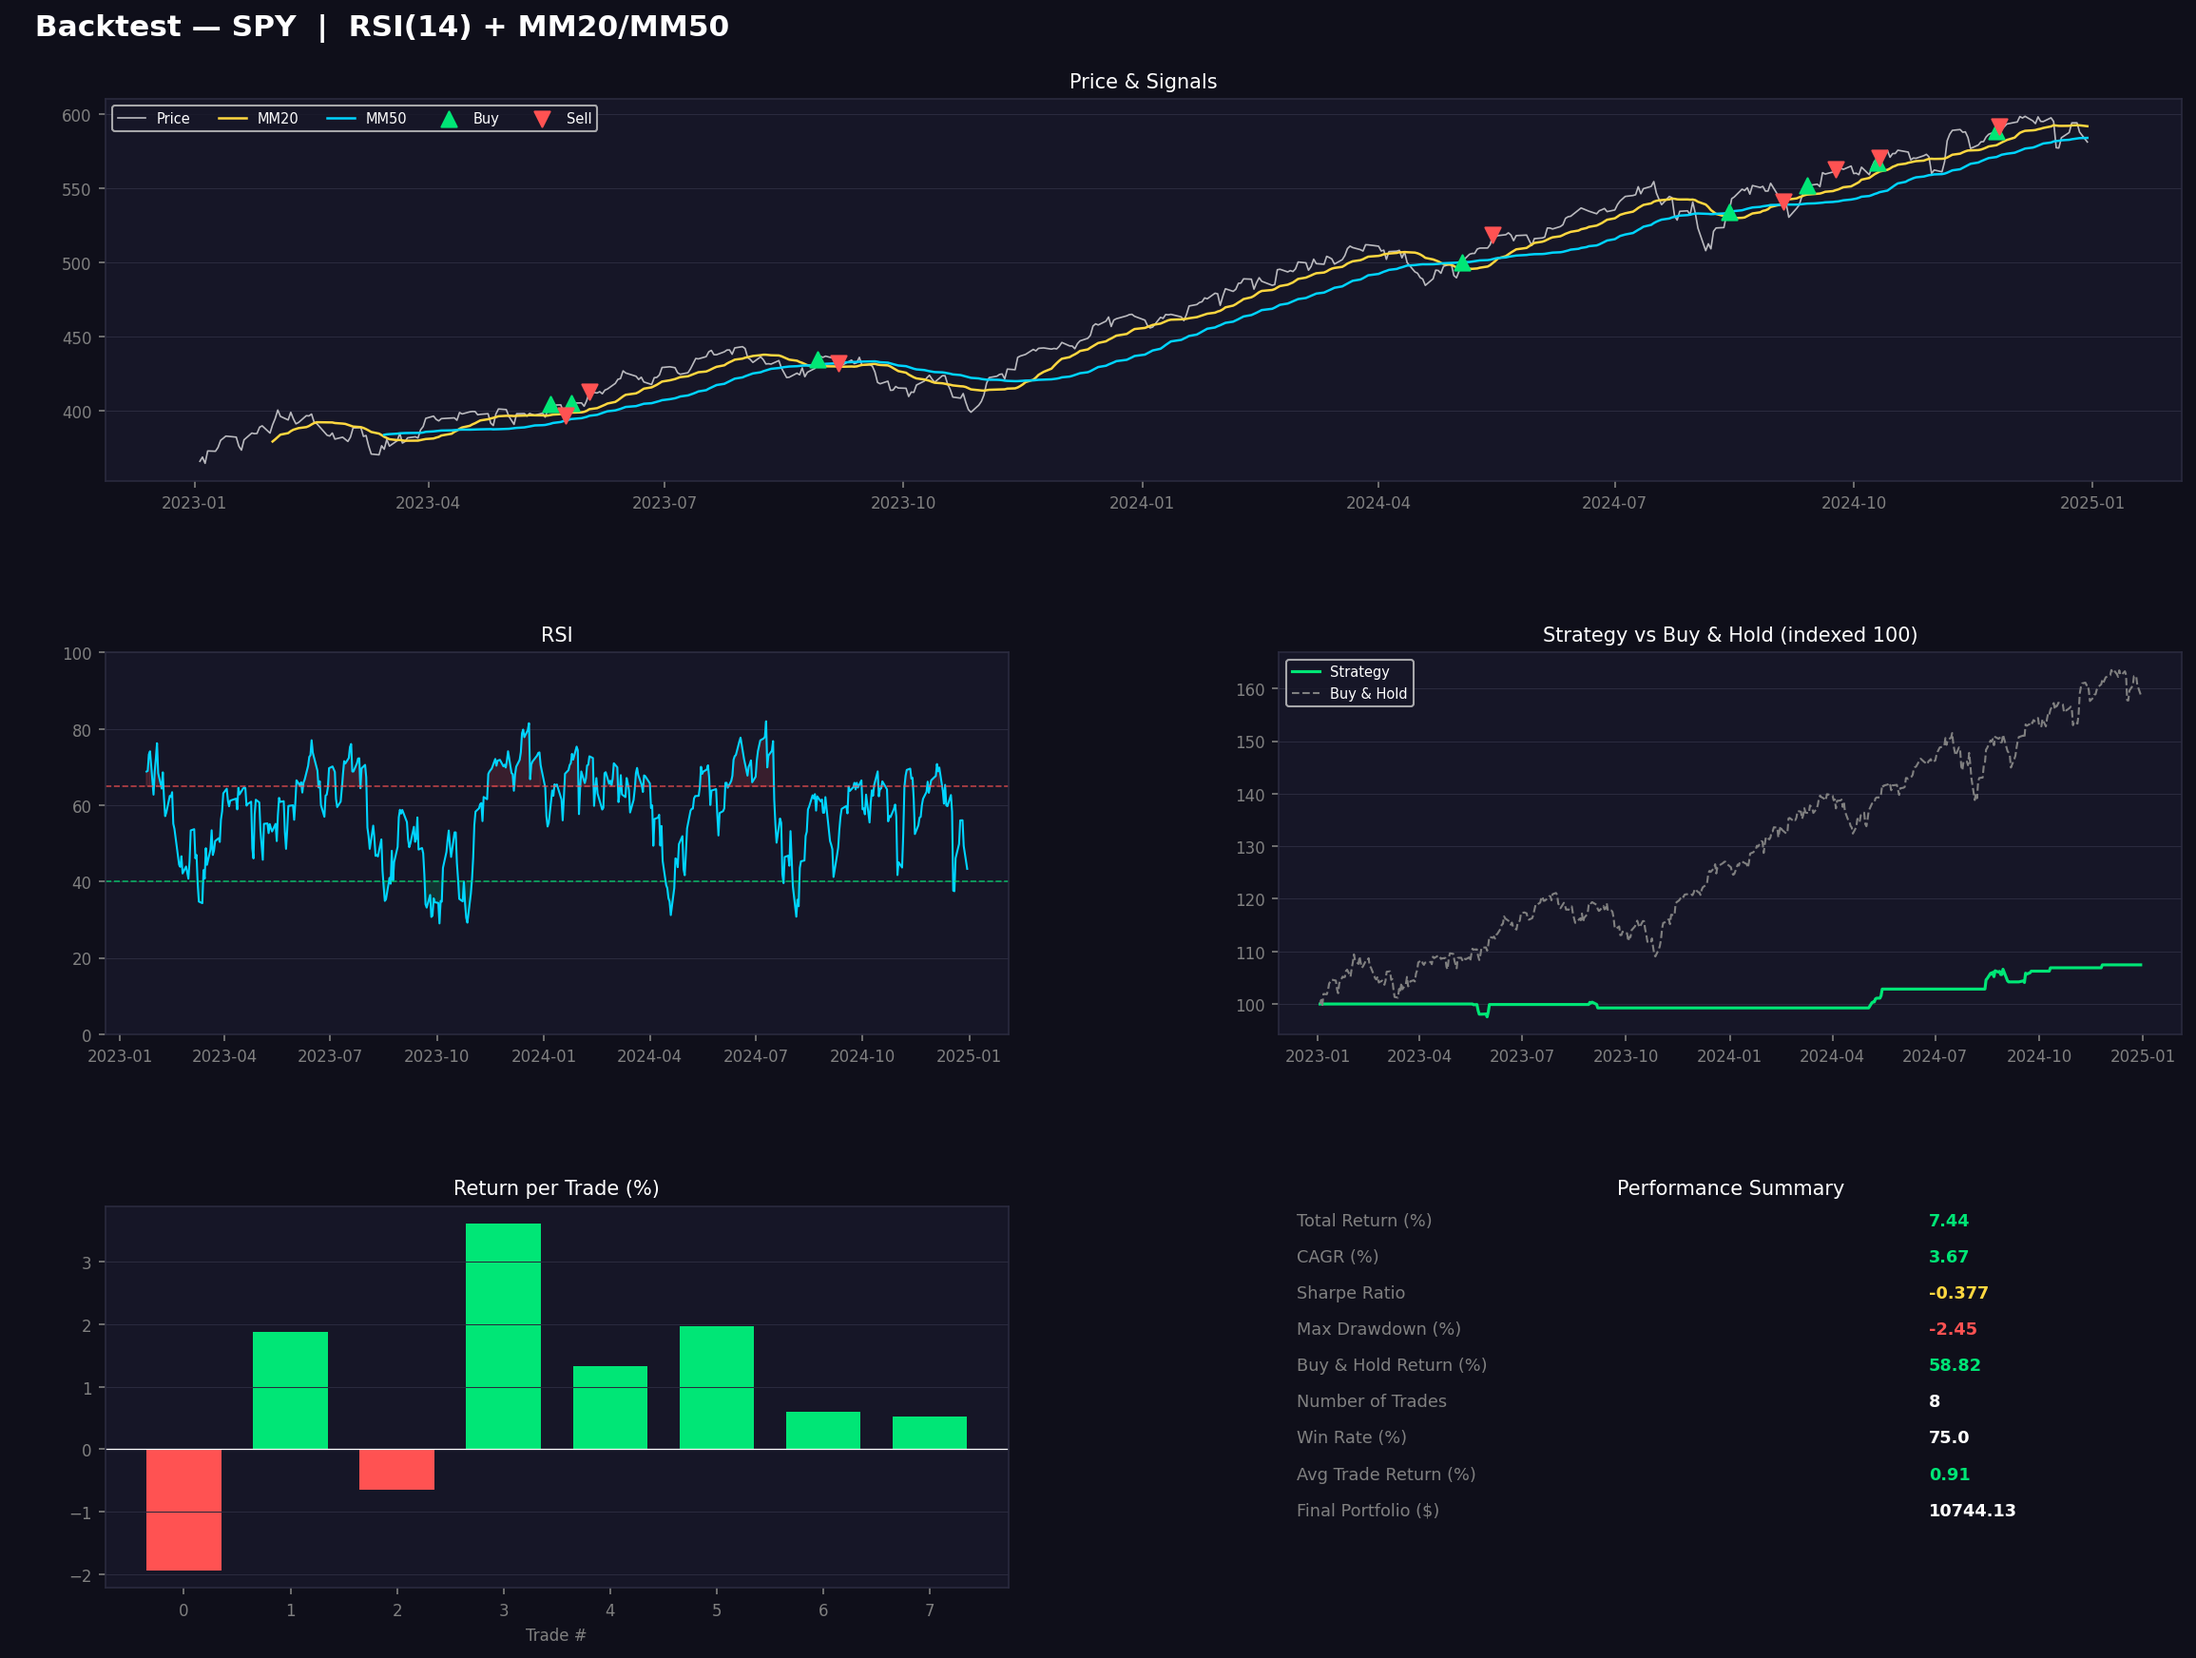
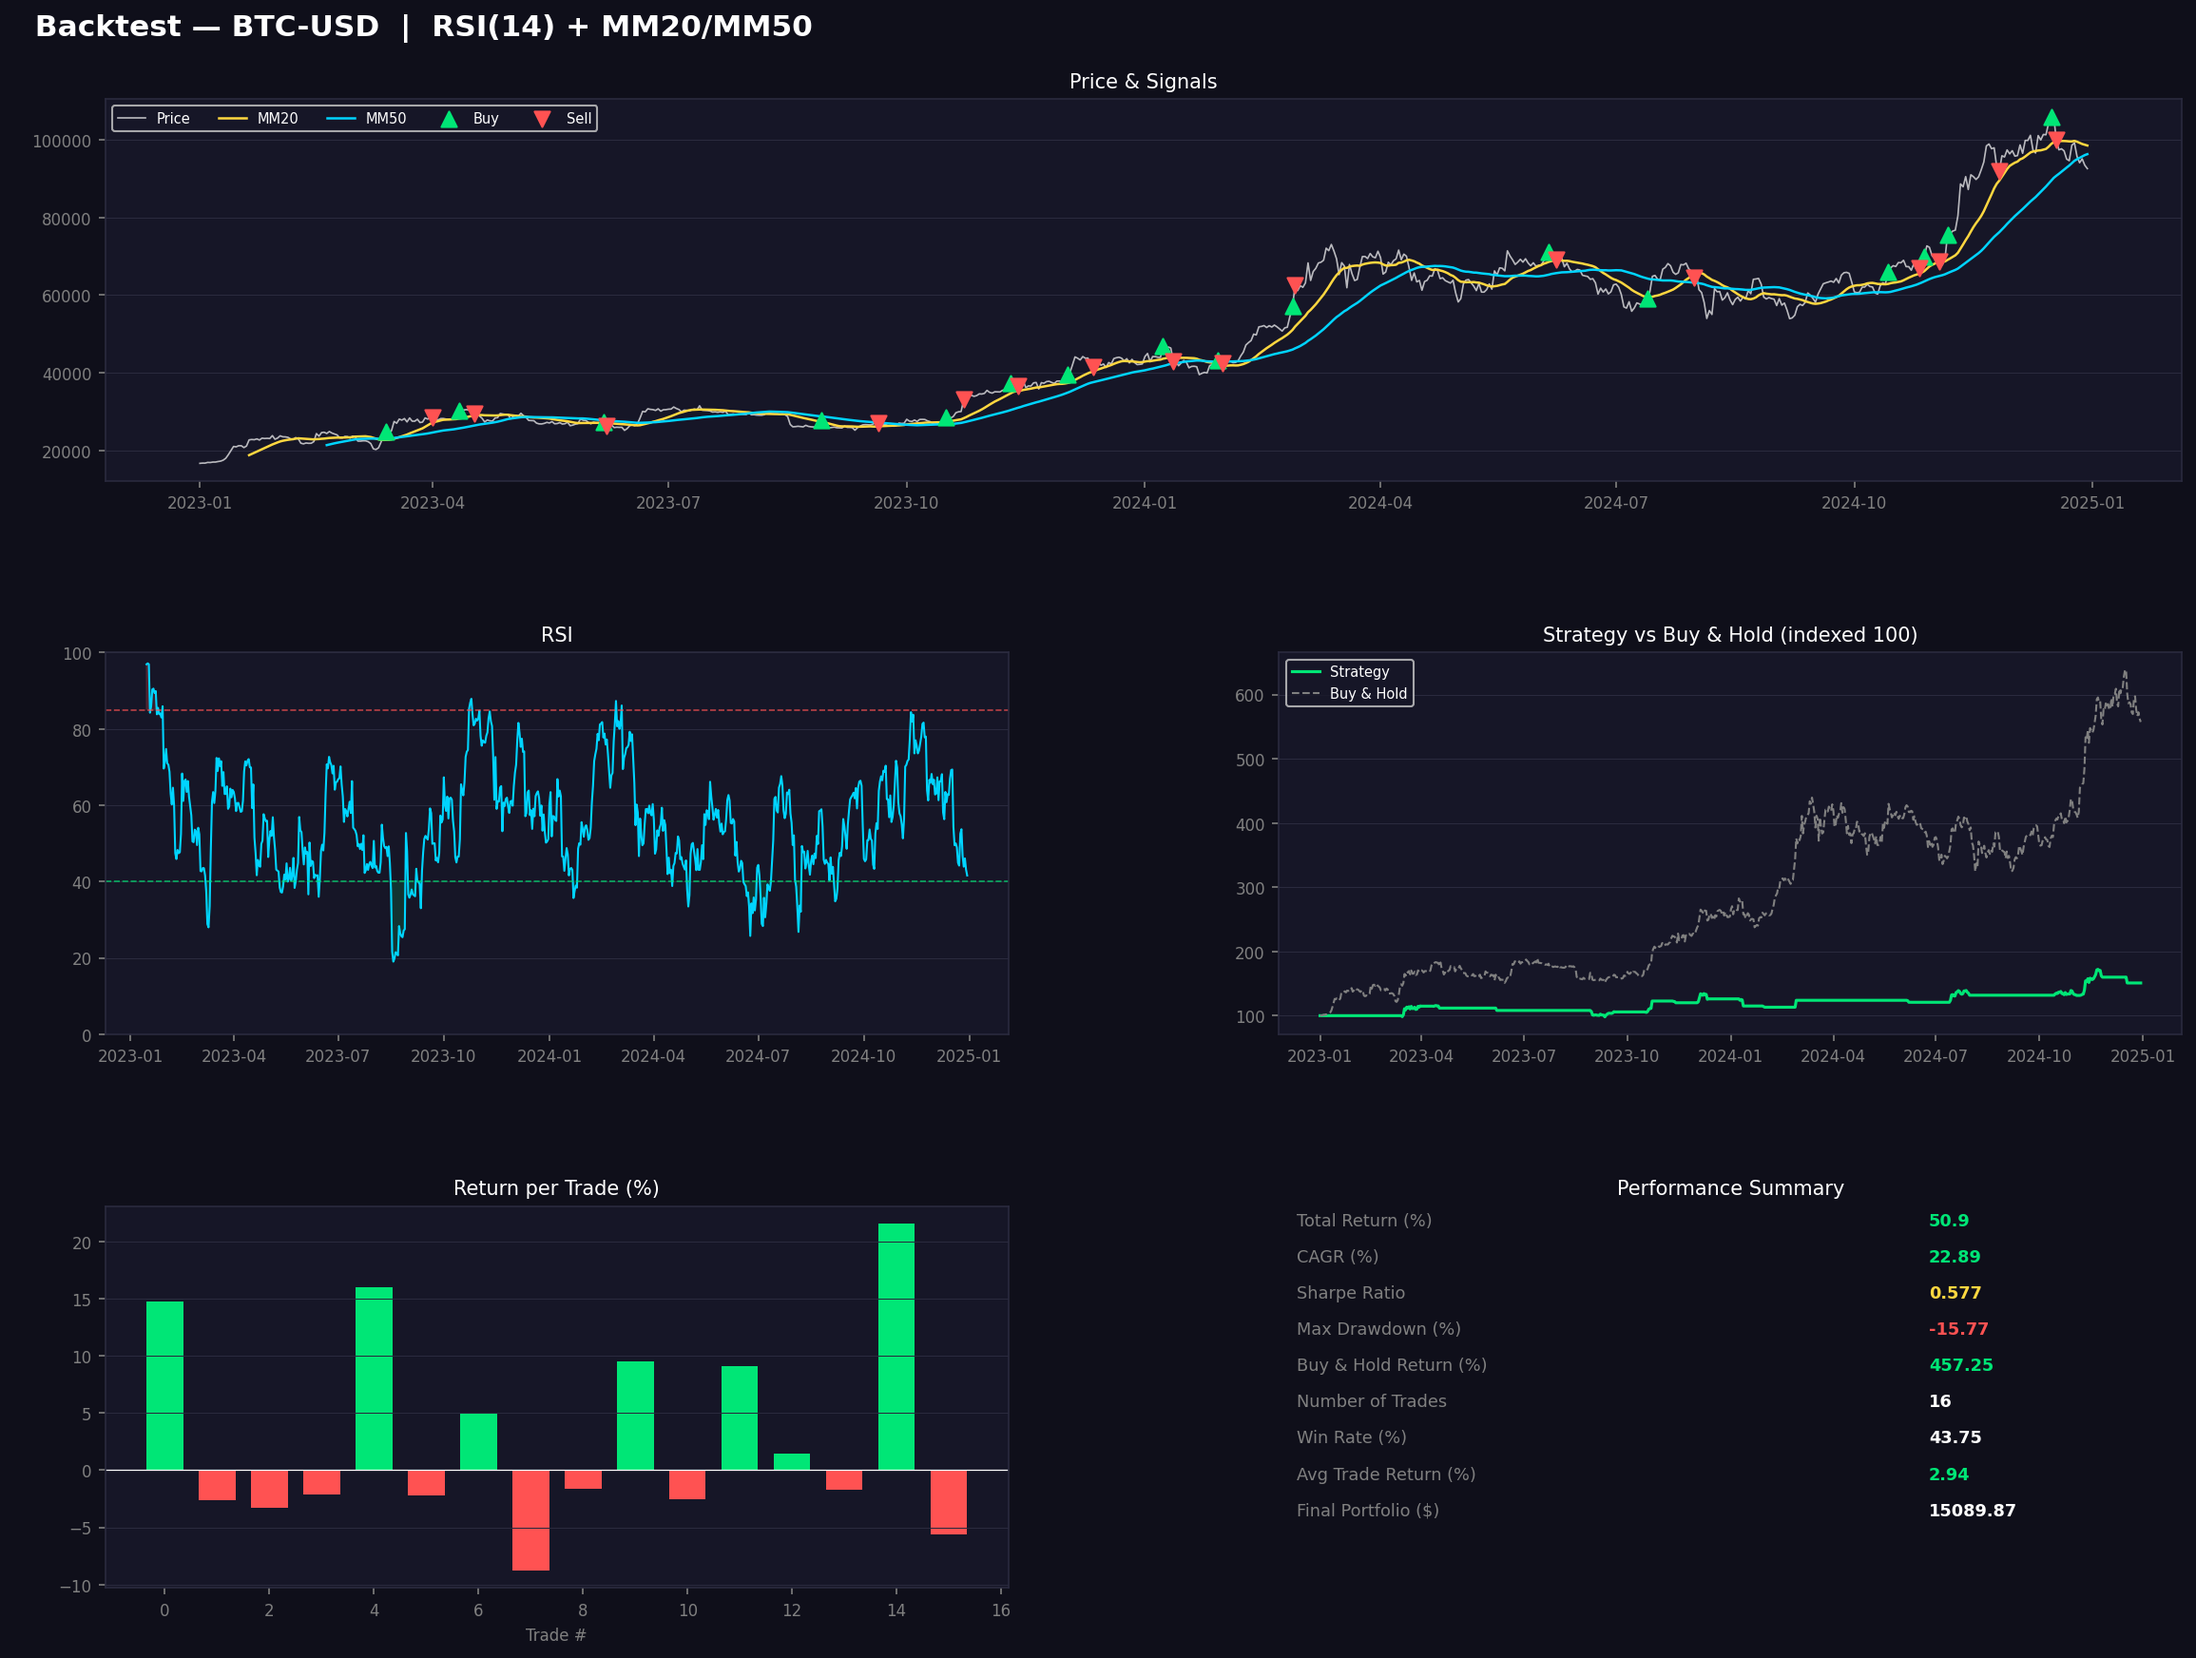
added a stop loss; ML on ideal parameters

diff --git a/strategy.py b/strategy.py
@@ -1,4 +1,5 @@
-
+from itertools import product
+from joblib import Parallel, delayed
 
 import yfinance as yf
 import pandas as pd
@@ -13,19 +14,29 @@ warnings.filterwarnings('ignore')
 
 
 CONFIG = {
-    "ticker":        "SPY",
-    "start": "2023-01-01",
-    "end":   "2024-12-31",
+    "ticker":           "BTC-USD",
+    "start": "2018-01-01",
+    "end":   "2024-12-31",  
+
+    "risk_free_rate":   0.05,
+
     "initial_cash":  10_000,
 
     "rsi_period":    14,
     "rsi_oversold":  40,
-    "rsi_overbought": 65,
+    "rsi_overbought": 85,
 
     "ma_fast":       20,
     "ma_slow":       50,
 
+    
+
+
     "position_size": 1.0,
+
+    "atr_multiplier": 2.0,    
+    "stop_loss_pct":  0.08,
+    
 }
 
 
@@ -40,7 +51,6 @@ def compute_rsi(series: pd.Series, period: int) -> pd.Series:
     rsi = 100 - (100 / (1 + rs))
     return rsi
 
-
 def add_indicators(df: pd.DataFrame, cfg: dict) -> pd.DataFrame:
     df = df.copy()
     df["MA_fast"] = df["Close"].rolling(cfg["ma_fast"]).mean()
@@ -54,14 +64,17 @@ def add_indicators(df: pd.DataFrame, cfg: dict) -> pd.DataFrame:
     df["MACD_signal"] = df["MACD"].ewm(span=9, adjust=False).mean()
     df["MACD_hist"]   = df["MACD"] - df["MACD_signal"]
 
+    df["TR"] = pd.concat([
+        df["High"] - df["Low"],
+        (df["High"] - df["Close"].shift(1)).abs(),
+        (df["Low"]  - df["Close"].shift(1)).abs()
+    ], axis=1).max(axis=1)
+    df["ATR"] = df["TR"].rolling(14).mean()
+
     return df
-
-
 
 #  BUY  : (MACD_hist croise 0 par le haut ET prix > MA_slow) OU (RSI remonte au dessus de 40 ET MACD_hist positif)
 #  SELL : (MACD_hist croise 0 par le bas) OU (RSI > 65) OU (prix passe sous MA_slow)
-
-
 
 def generate_signals(df: pd.DataFrame, cfg: dict) -> pd.DataFrame:
 
@@ -71,9 +84,10 @@ def generate_signals(df: pd.DataFrame, cfg: dict) -> pd.DataFrame:
 
     cond_ma = df["Close"] > df["MA_slow"]
 
-    cond_rsi = (df["RSI"] > 40) & (df["RSI"].shift(1) <= 40)
+    cond_rsi = (df["RSI"] > cfg["rsi_oversold"]) & (df["RSI"].shift(1) <= cfg["rsi_oversold"])
 
     cond_macd = (df["MACD_hist"] > 0) & (df["MACD_hist"].shift(1) <= 0)
+
 
     buy_signal = cond_macd & cond_ma
     buy_signal2 = cond_rsi & (df["MACD_hist"] > 0)
@@ -90,26 +104,27 @@ def generate_signals(df: pd.DataFrame, cfg: dict) -> pd.DataFrame:
 
     return df
 
-
-
-
 def run_backtest(df: pd.DataFrame, cfg: dict) -> pd.DataFrame:
     cash       = cfg["initial_cash"]
     shares     = 0
-    position   = 0          # 0 = out, 1 = in
+    position   = 0          
     trades     = []
     portfolio  = []
     entry_price = 0
+    trailing_stop = 0
+    fee           = cfg.get("fee", 0.001)
 
     for date, row in df.iterrows():
         price = row["Close"]
         sig   = row["signal"]
+        atr   = row["ATR"] if not np.isnan(row["ATR"]) else price * 0.05
 
         if sig == 1 and position == 0 and not np.isnan(row["MA_slow"]):
             shares      = (cash * cfg["position_size"]) / price
             cash       -= shares * price
             position    = 1
             entry_price = price
+            trailing_stop = price - cfg["atr_multiplier"] * atr
             trades.append({"date": date, "type": "BUY", "price": price, "shares": shares})
 
         elif sig == -1 and position == 1:
@@ -121,23 +136,56 @@ def run_backtest(df: pd.DataFrame, cfg: dict) -> pd.DataFrame:
             shares   = 0
             position = 0
 
+        elif position == 1:
+            # Met à jour le trailing stop si le prix monte
+            new_stop      = price - cfg["atr_multiplier"] * atr
+            trailing_stop = max(trailing_stop, new_stop)
+
+            # — STOP LOSS DÉCLENCHÉ —
+            if price <= trailing_stop:
+                cash += shares * price * (1 - fee)
+                pnl   = (price - entry_price) * shares
+                trades.append({"date": date, "type": "SELL",
+                               "price": price, "shares": shares,
+                               "pnl": pnl,
+                               "return_%": (price / entry_price - 1) * 100,
+                               "exit": "stop_loss"})
+                shares        = 0
+                position      = 0
+                trailing_stop = 0
+
+            # — SIGNAL DE VENTE NORMAL —
+            elif sig == -1:
+                cash += shares * price * (1 - fee)
+                pnl   = (price - entry_price) * shares
+                trades.append({"date": date, "type": "SELL",
+                               "price": price, "shares": shares,
+                               "pnl": pnl,
+                               "return_%": (price / entry_price - 1) * 100,
+                               "exit": "signal"})
+                shares        = 0
+                position      = 0
+                trailing_stop = 0
+
+        # Valorisation quotidienne
         portfolio_value = cash + shares * price
-        portfolio.append({"date": date, "value": portfolio_value, "price": price, "position": position})
+        portfolio.append({"date": date, "value": portfolio_value,
+                          "price": price, "position": position})
 
-
+    # Force-close à la fin
     if position == 1:
         price = df["Close"].iloc[-1]
-        cash += shares * price
+        cash += shares * price * (1 - fee)
         pnl   = (price - entry_price) * shares
-        trades.append({"date": df.index[-1], "type": "SELL", "price": price,
-                       "shares": shares, "pnl": pnl,
-                       "return_%": (price / entry_price - 1) * 100})
+        trades.append({"date": df.index[-1], "type": "SELL",
+                       "price": price, "shares": shares,
+                       "pnl": pnl,
+                       "return_%": (price / entry_price - 1) * 100,
+                       "exit": "force_close"})
 
     portfolio_df = pd.DataFrame(portfolio).set_index("date")
     trades_df    = pd.DataFrame(trades)
     return portfolio_df, trades_df
-
-
 
 def compute_metrics(portfolio_df: pd.DataFrame, trades_df: pd.DataFrame, cfg: dict) -> dict:
     values = portfolio_df["value"]
@@ -155,7 +203,7 @@ def compute_metrics(portfolio_df: pd.DataFrame, trades_df: pd.DataFrame, cfg: di
     daily_ret = (values - values.shift(1)) / values.shift(1)
     daily_ret = daily_ret.dropna()
 
-    risk_free_daily = 0.05 / 252  
+    risk_free_daily = cfg["risk_free_rate"] / 252 
     sharpe = ((daily_ret.mean() - risk_free_daily) / daily_ret.std()) * np.sqrt(252) if daily_ret.std() > 0 else 0
 
 
@@ -184,10 +232,6 @@ def compute_metrics(portfolio_df: pd.DataFrame, trades_df: pd.DataFrame, cfg: di
         "Final Portfolio ($)":  round(final, 2),
     }
 
-
-# ─────────────────────────────────────────
-#  VISUALISATION
-# ─────────────────────────────────────────
 def plot_results(df: pd.DataFrame, portfolio_df: pd.DataFrame,
                  trades_df: pd.DataFrame, metrics: dict, cfg: dict):
 
@@ -285,10 +329,59 @@ def plot_results(df: pd.DataFrame, portfolio_df: pd.DataFrame,
     print("✅ Chart saved → backtest_result.png")
     plt.close()
 
+def evaluate_params(params, data):
+    cfg_test = CONFIG.copy()
+    cfg_test.update(params)
+    try:
+        df = add_indicators(data, cfg_test)
+        df = generate_signals(df, cfg_test)
+        portfolio_df, trades_df = run_backtest(df, cfg_test)
+        if len(trades_df[trades_df["type"] == "SELL"]) < 5:
+            return None  # trop peu de trades, on ignore
+        metrics = compute_metrics(portfolio_df, trades_df, cfg_test)
+        return {"params": params, "sharpe": metrics["Sharpe Ratio"], "metrics": metrics}
+    except:
+        return None
 
-# ─────────────────────────────────────────
-#  MAIN
-# ─────────────────────────────────────────
+def grid_search(data):
+
+    param_grid = {
+        "rsi_period":     [5, 7, 9, 10, 12, 14, 16, 18, 21, 25, 30],
+        "rsi_oversold":   [25, 28, 30, 32, 35, 37, 40, 42, 45, 48, 50],
+        "rsi_overbought": [55, 58, 60, 62, 65, 67, 70, 72, 75, 78, 80, 85],
+        "ma_fast":        [5, 8, 10, 12, 15, 18, 20, 22, 25, 30],
+        "ma_slow":        [30, 40, 50, 60, 70, 80, 100, 120, 150, 200],
+        "atr_multiplier": [1.0, 1.5, 2.0, 2.5, 3.0, 3.5, 4.0, 4.5, 5.0, 6.0],
+    }
+
+    
+    keys   = list(param_grid.keys())
+    values = list(param_grid.values())
+    combos = [dict(zip(keys, v)) for v in product(*values)]
+
+    # ma_fast < ma_slow
+    combos = [c for c in combos if c["ma_fast"] < c["ma_slow"]]
+    combos = [c for c in combos if c["rsi_oversold"] < c["rsi_overbought"]]
+
+    
+
+    
+    results = Parallel(n_jobs=-1, verbose=1)(
+        delayed(evaluate_params)(c, data) for c in combos
+    )
+
+    
+    results = [r for r in results if r is not None]
+    results.sort(key=lambda x: x["sharpe"], reverse=True)
+
+    print("meilleurs paramètres trouves")
+    for i, r in enumerate(results[:10]):
+        p = r["params"]
+        print(f"#{i+1} Sharpe={r['sharpe']:.3f} | "
+              f"RSI({p['rsi_period']}) {p['rsi_oversold']}/{p['rsi_overbought']} | "
+              f"MA {p['ma_fast']}/{p['ma_slow']}")
+    return results[0]["params"] if results else None
+
 def main():
     cfg = CONFIG
     print(f"\n📥 Downloading {cfg['ticker']} data ({cfg['start']} → {cfg['end']})...")
@@ -322,6 +415,18 @@ def main():
     plot_results(df, portfolio_df, trades_df, metrics, cfg)
 
     print("\n✅ Done!")
+
+    print("\n🔍 Lancement du Grid Search sur 2018-2022...")
+    train_raw = yf.download(cfg["ticker"], start="2018-01-01", end="2022-12-31",
+                        auto_adjust=True, progress=False)
+    if isinstance(train_raw.columns, pd.MultiIndex):
+        train_raw.columns = train_raw.columns.get_level_values(0)
+
+    best_params = grid_search(train_raw)
+
+    if best_params:
+        print(f"Meilleurs paramètres trouvés : {best_params}")
+        cfg.update(best_params)
 
 
 if __name__ == "__main__":
